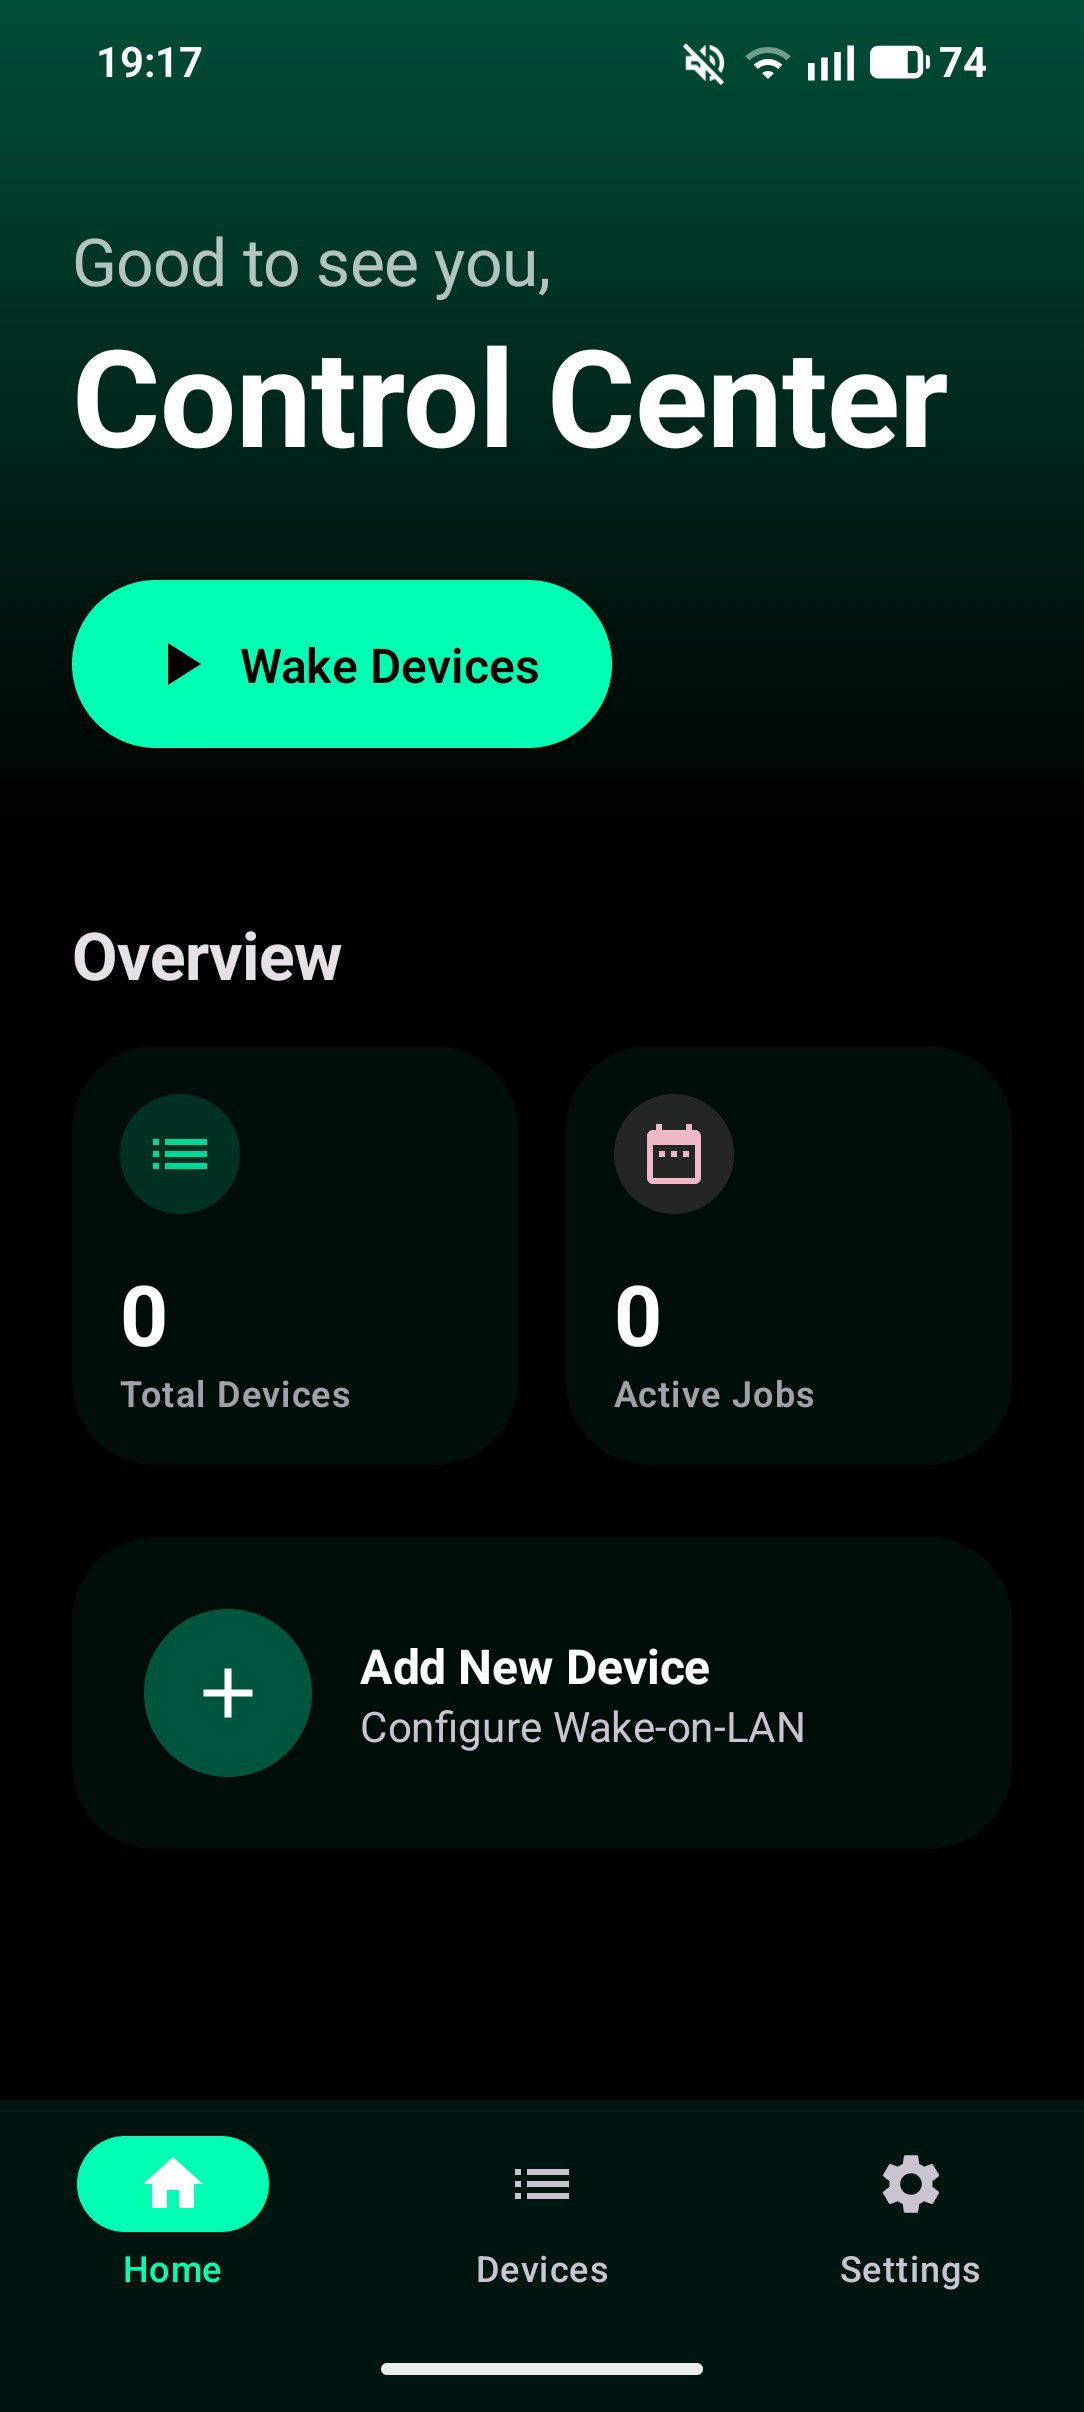
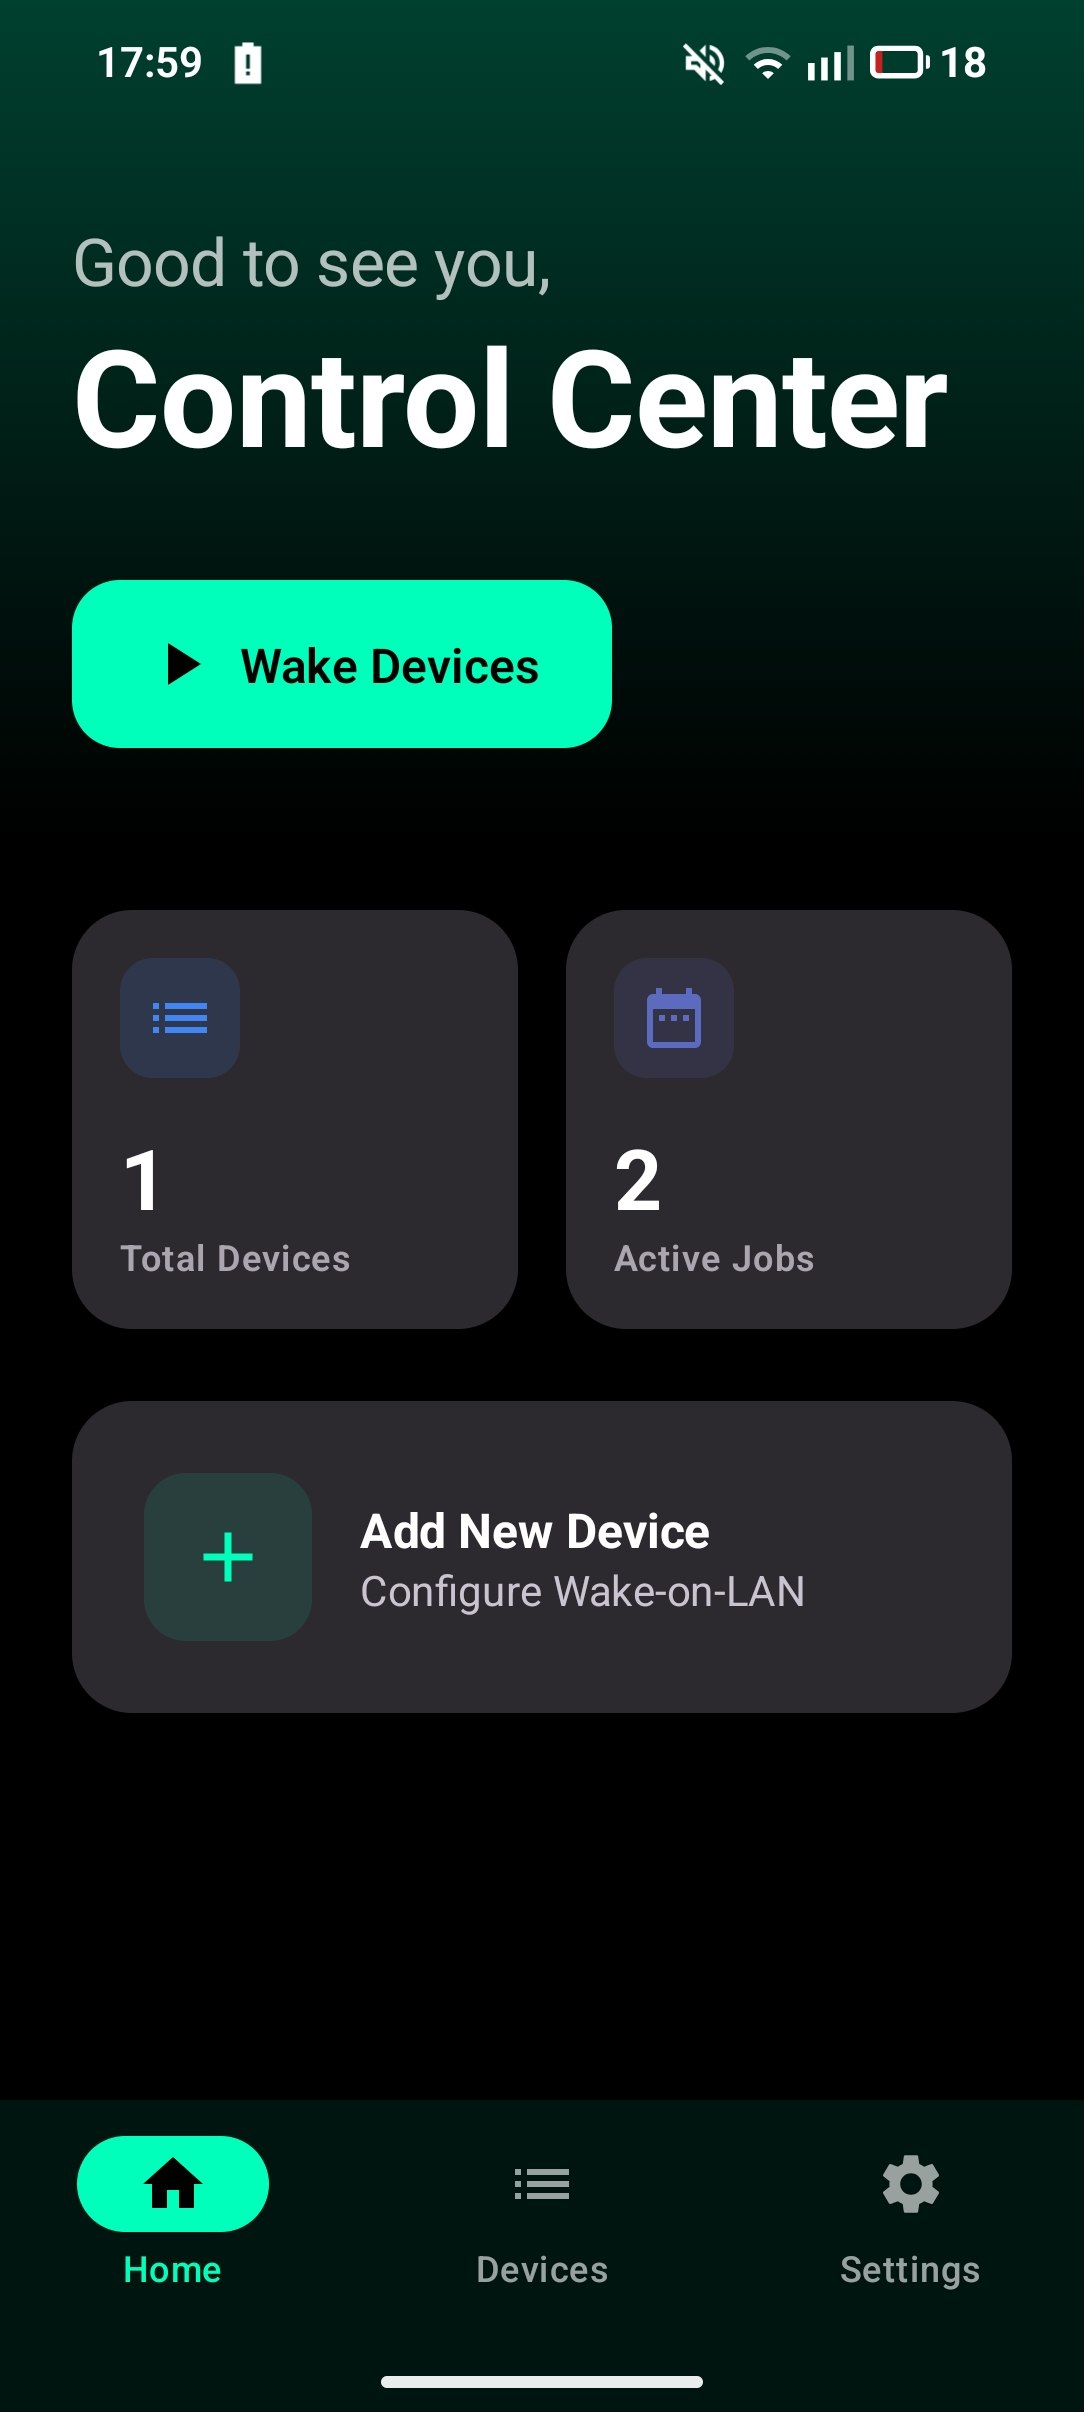
Final Sync: - Fix: Resolved app crashes by adding missing index on pcId foreign key. - Fix: Incremented database version for correctly applying schema changes. - Refactor: Updated README.md screenshot order as requested. - Feature: Completed full device deletion cleanup (database cascade + alarm can

diff --git a/app/src/main/java/com/gemini/wol/ui/screen/HomeScreen.kt b/app/src/main/java/com/gemini/wol/ui/screen/HomeScreen.kt
@@ -20,6 +20,7 @@ import androidx.compose.ui.Modifier
 import androidx.compose.ui.draw.clip
 import androidx.compose.ui.graphics.Brush
 import androidx.compose.ui.graphics.Color
+import androidx.compose.ui.graphics.luminance
 import androidx.compose.ui.graphics.vector.ImageVector
 import androidx.compose.ui.text.font.FontWeight
 import androidx.compose.ui.unit.dp
@@ -56,6 +57,8 @@ fun HomeScreen(
                     )
                 )
         ) {
+            val heroTextColor = if (MaterialTheme.colorScheme.primaryContainer.luminance() > 0.5f) Color.Black else Color.White
+            
             Column(
                 modifier = Modifier
                     .fillMaxSize()
@@ -66,13 +69,13 @@ fun HomeScreen(
                 Text(
                     text = "Good to see you,",
                     style = MaterialTheme.typography.titleLarge,
-                    color = MaterialTheme.colorScheme.primary.copy(alpha = 0.7f)
+                    color = heroTextColor.copy(alpha = 0.7f)
                 )
                 Text(
                     text = "Control Center",
                     style = MaterialTheme.typography.displayMedium,
                     fontWeight = FontWeight.Bold,
-                    color = MaterialTheme.colorScheme.primary
+                    color = heroTextColor
                 )
                 
                 Spacer(modifier = Modifier.height(32.dp))
@@ -103,7 +106,7 @@ fun HomeScreen(
                     title = "Total Devices",
                     count = uiState.totalPcs.toString(),
                     icon = Icons.Default.List,
-                    color = MaterialTheme.colorScheme.secondary,
+                    color = Color(0xFF4285F4), // Consistent semantic Blue
                     modifier = Modifier.weight(1f),
                     onClick = onNavigateToDevices
                 )
@@ -111,7 +114,7 @@ fun HomeScreen(
                     title = "Active Jobs",
                     count = uiState.activeSchedules.toString(),
                     icon = Icons.Default.DateRange,
-                    color = MaterialTheme.colorScheme.tertiary,
+                    color = Color(0xFF5C6BC0), // Soft Indigo
                     modifier = Modifier.weight(1f),
                     onClick = onShowAllSchedules 
                 )

diff --git a/app/src/main/java/com/gemini/wol/data/repository/PcRepository.kt b/app/src/main/java/com/gemini/wol/data/repository/PcRepository.kt
@@ -1,12 +1,17 @@
 package com.gemini.wol.data.repository
 
 import com.gemini.wol.data.local.dao.PcDao
+import com.gemini.wol.data.local.dao.ScheduleDao
 import com.gemini.wol.data.local.entity.PcEntity
+import com.gemini.wol.worker.ScheduleManager
 import kotlinx.coroutines.flow.Flow
+import kotlinx.coroutines.flow.first
 import javax.inject.Inject
 
 class PcRepository @Inject constructor(
-    private val pcDao: PcDao
+    private val pcDao: PcDao,
+    private val scheduleDao: ScheduleDao,
+    private val scheduleManager: ScheduleManager
 ) {
     val allPcs: Flow<List<PcEntity>> = pcDao.getAllPcs()
 
@@ -21,6 +26,13 @@ class PcRepository @Inject constructor(
     }
 
     suspend fun deletePc(pc: PcEntity) {
+        // 1. Get all schedules for this PC
+        val schedules = scheduleDao.getSchedulesForPc(pc.id).first()
+        
+        // 2. Cancel all Android alarms
+        scheduleManager.cancelAllSchedulesForPc(schedules)
+        
+        // 3. Delete the PC (Cascade will handle database schedules)
         pcDao.deletePc(pc)
     }
     

diff --git a/app/src/main/java/com/gemini/wol/worker/ScheduleManager.kt b/app/src/main/java/com/gemini/wol/worker/ScheduleManager.kt
@@ -3,6 +3,7 @@ package com.gemini.wol.worker
 import android.content.Context
 import android.util.Log
 import com.gemini.wol.data.local.entity.PcEntity
+import com.gemini.wol.data.local.entity.ScheduleEntity
 import com.gemini.wol.util.PermissionsHelper
 import dagger.hilt.android.qualifiers.ApplicationContext
 import java.util.Calendar
@@ -131,6 +132,13 @@ class ScheduleManager @Inject constructor(
             alarmManager.cancel(pendingIntent)
             pendingIntent.cancel()
         }
+    }
+    
+    fun cancelAllSchedulesForPc(schedules: List<ScheduleEntity>) {
+        schedules.forEach { schedule ->
+            cancelSchedule(schedule.pcId, schedule.timeHour, schedule.timeMinute)
+        }
+        Log.d(TAG, "All alarms cancelled for PC: ${schedules.firstOrNull()?.pcId}")
     }
     
     private fun getRequestCode(pcId: String, hour: Int, minute: Int): Int {

diff --git a/app/src/main/java/com/gemini/wol/data/local/AppDatabase.kt b/app/src/main/java/com/gemini/wol/data/local/AppDatabase.kt
@@ -7,8 +7,17 @@ import com.gemini.wol.data.local.dao.ScheduleDao
 import com.gemini.wol.data.local.entity.PcEntity
 import com.gemini.wol.data.local.entity.ScheduleEntity
 
-@Database(entities = [PcEntity::class, ScheduleEntity::class], version = 1, exportSchema = false)
+@Database(entities = [PcEntity::class, ScheduleEntity::class], version = 2, exportSchema = false)
 abstract class AppDatabase : RoomDatabase() {
     abstract fun pcDao(): PcDao
     abstract fun scheduleDao(): ScheduleDao
+
+    companion object {
+        val CALLBACK = object : RoomDatabase.Callback() {
+            override fun onOpen(db: androidx.sqlite.db.SupportSQLiteDatabase) {
+                super.onOpen(db)
+                db.execSQL("PRAGMA foreign_keys=ON")
+            }
+        }
+    }
 }

diff --git a/app/src/main/java/com/gemini/wol/data/local/entity/ScheduleEntity.kt b/app/src/main/java/com/gemini/wol/data/local/entity/ScheduleEntity.kt
@@ -1,10 +1,23 @@
 package com.gemini.wol.data.local.entity
 
 import androidx.room.Entity
+import androidx.room.ForeignKey
+import androidx.room.Index
 import androidx.room.PrimaryKey
 import java.util.UUID
 
-@Entity(tableName = "schedule")
+@Entity(
+    tableName = "schedule",
+    foreignKeys = [
+        ForeignKey(
+            entity = PcEntity::class,
+            parentColumns = ["id"],
+            childColumns = ["pcId"],
+            onDelete = ForeignKey.CASCADE
+        )
+    ],
+    indices = [Index("pcId")]
+)
 data class ScheduleEntity(
     @PrimaryKey val id: String = UUID.randomUUID().toString(),
     val pcId: String,

diff --git a/app/src/main/java/com/gemini/wol/di/DatabaseModule.kt b/app/src/main/java/com/gemini/wol/di/DatabaseModule.kt
@@ -23,7 +23,8 @@ object DatabaseModule {
             context,
             AppDatabase::class.java,
             "wol_database"
-        ).fallbackToDestructiveMigration() // For simplicity in dev
+        ).addCallback(AppDatabase.CALLBACK)
+         .fallbackToDestructiveMigration() // For simplicity in dev
          .build()
     }
 
